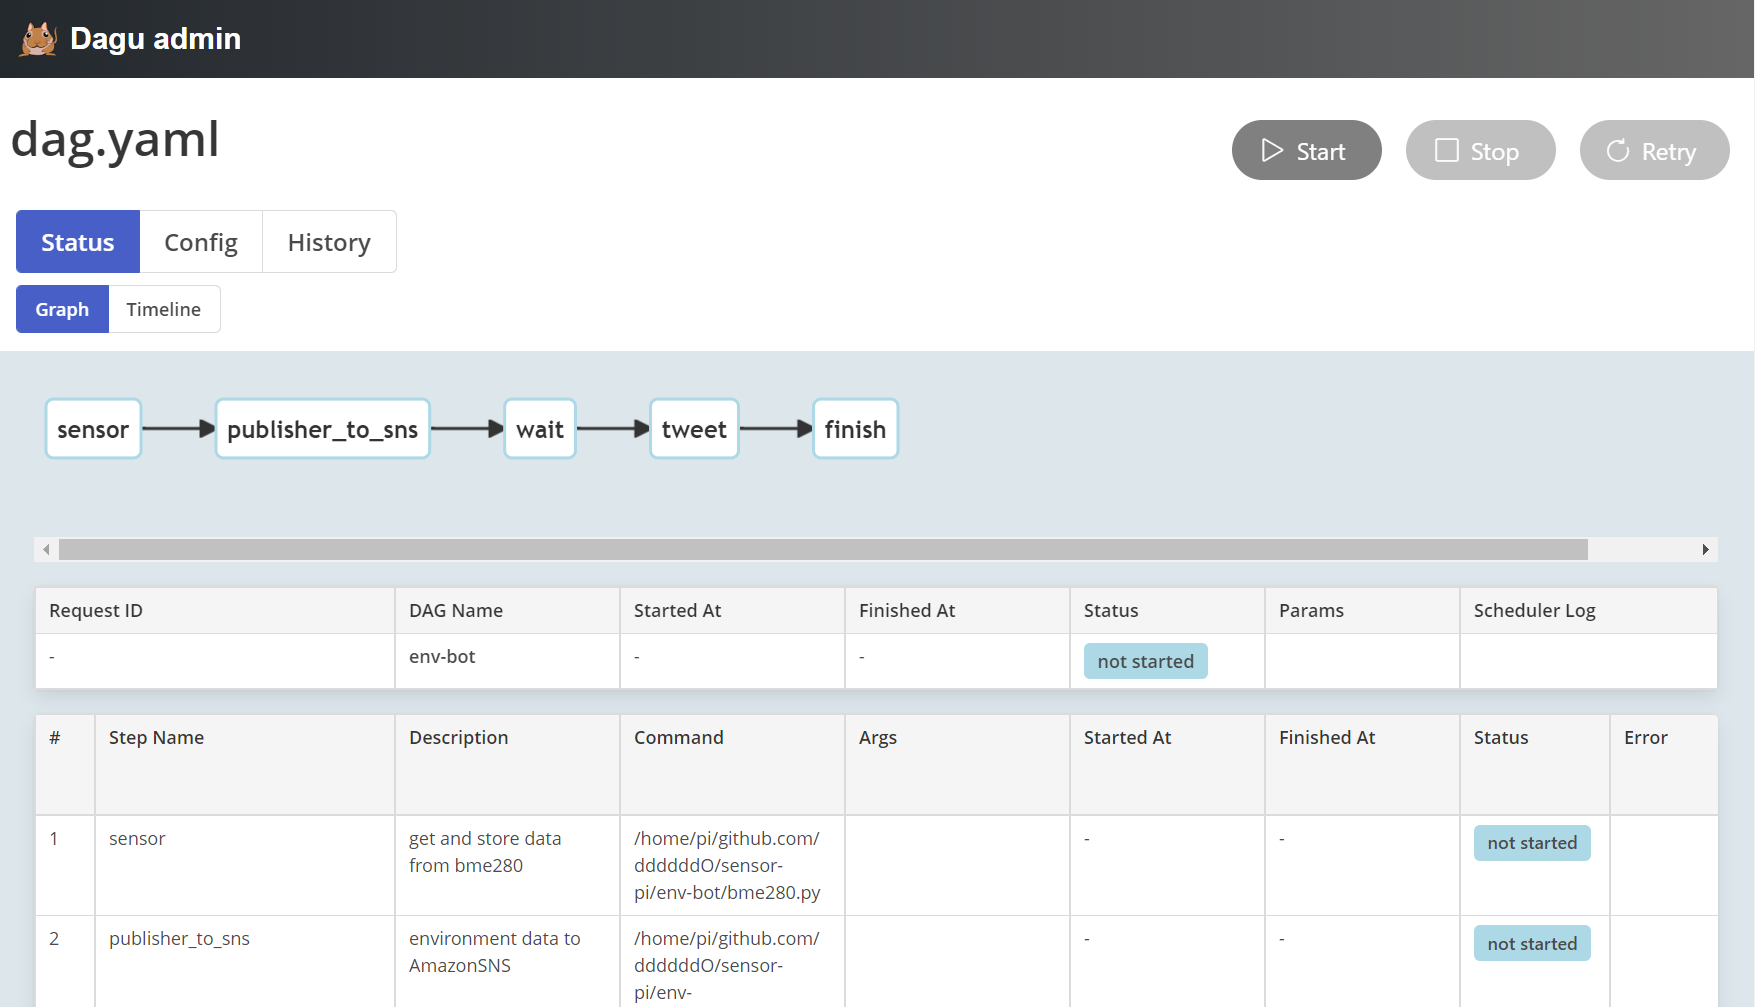
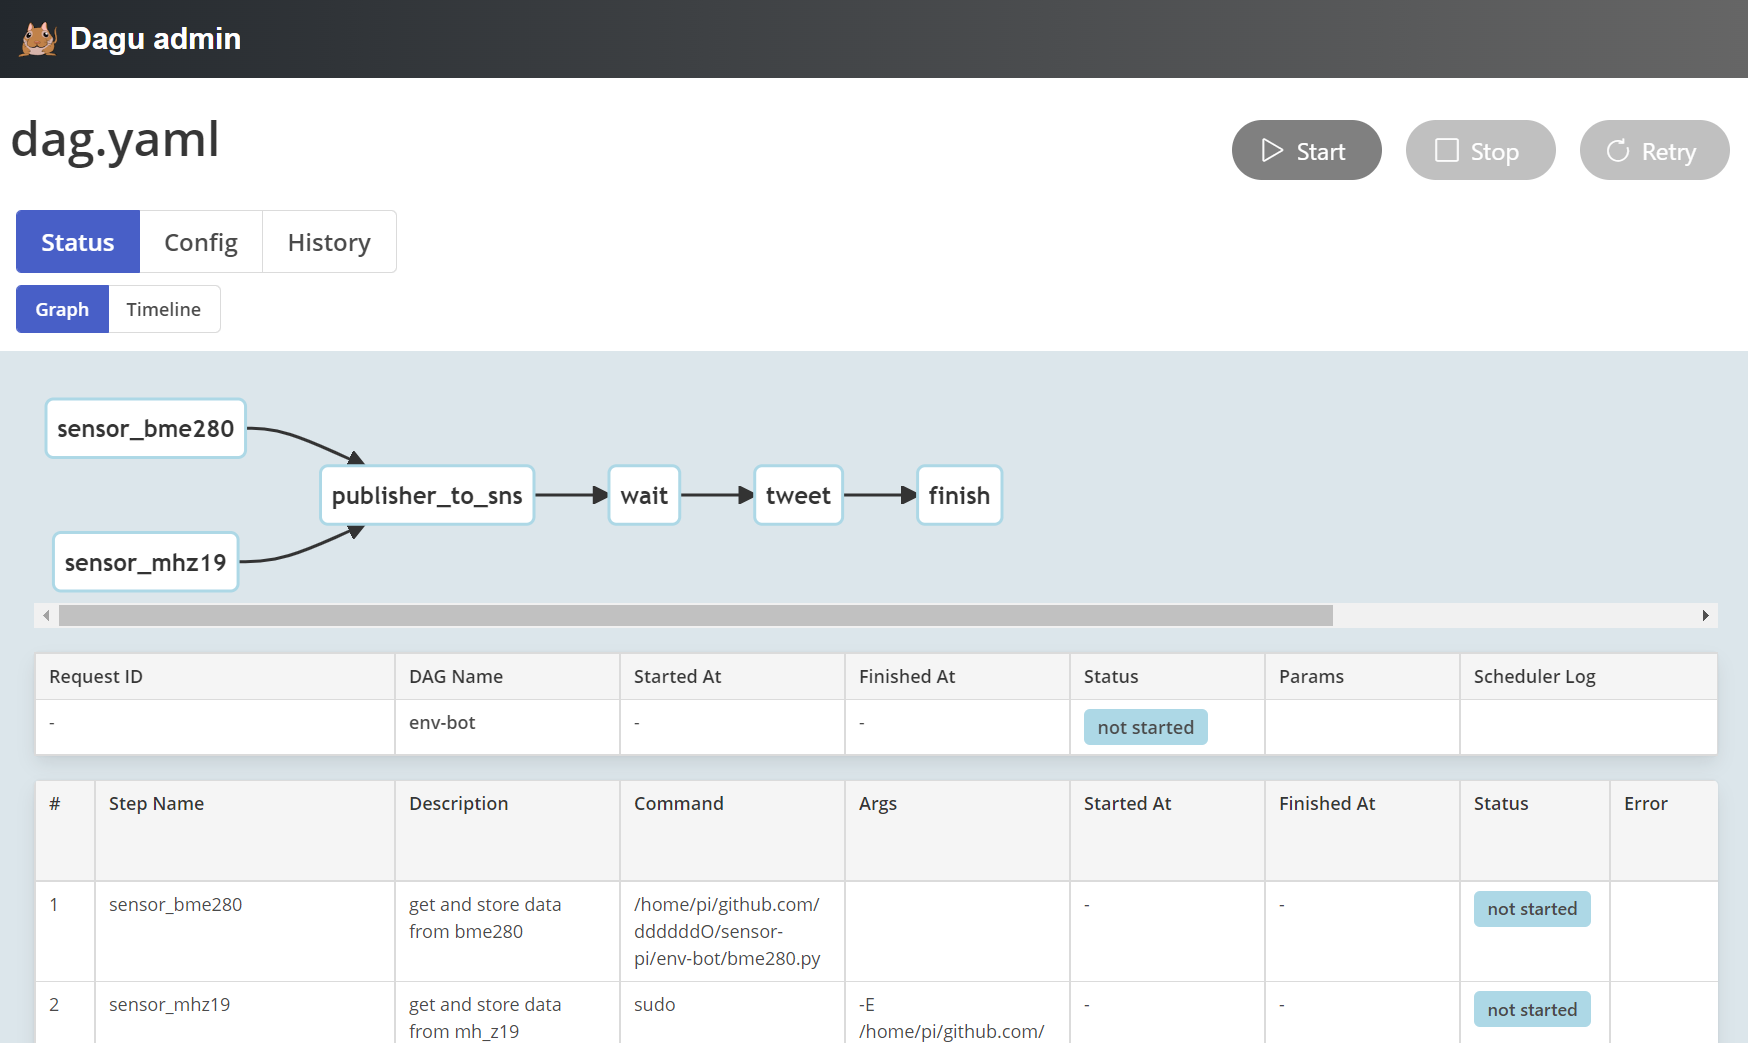
modify docs

diff --git a/env-bot/doc/diagram.py b/env-bot/doc/diagram.py
@@ -9,6 +9,7 @@ from diagrams.saas.social import Twitter
 
 with Diagram("ENV-Tweet-Bot", show=False, outformat="png"):
   bme280 = Server("bme280\n(sensor)")
+  mh_z19 = Server("mh_z19\n(sensor)")
 
   green_edge = Edge(color="darkgreen")
   brown_edge = Edge(color="brown")
@@ -16,23 +17,27 @@ with Diagram("ENV-Tweet-Bot", show=False, outformat="png"):
 
   with Cluster("Raspberry Pi 4"):
     prog1 = Python("Get and Store\nsensor value")
+    prog4 = Python("Get and Store\nsensor value")
     db = SQL("SQLite3")
     prog2 = Go("Fetch and Publish\nenv data\n(10 records)")
     prog3 = Python("Pull and Decode\nimage data\nand Post tweet")
 
   with Cluster("AWS"):
-    sns = SNS("pressure/\nhumidity/\ntemperature data")
+    sns = SNS("pressure/\nhumidity/\ntemperature and co2 data")
 
     with Cluster("Generate image"):
       svc_group = [Lambda("pressure"),
                   Lambda("humidity"),
-                  Lambda("temperature")]
+                  Lambda("temperature"),
+                  Lambda("co2")]
 
     sqs = SQS("encoded base64\nimage data")
 
   twitter = Twitter("Twitter")
 
-  bme280 >> black_edge >> prog1 >> black_edge >> black_edge >> db >> black_edge >> prog2 >> black_edge >> sns
+  bme280 >> black_edge >> prog1 >> black_edge >> db
+  mh_z19 >> black_edge >> prog4 >> black_edge >> db
+  db >> black_edge >> prog2 >> black_edge >> sns
   sns >> green_edge >> svc_group
   svc_group >> green_edge >> sqs >> brown_edge >> prog3
   prog3 >> black_edge >> twitter

diff --git a/README.md b/README.md
@@ -5,7 +5,7 @@
 
 # [env-bot](env-bot/)
 ### 概要
-- bme280(センサ)から気圧・温度・湿度を取得する@多摩川あたり。
+- bme280から気圧・温度・湿度を、mh_z19からCO2濃度を取得する@多摩川あたり。
 - 取得したデータを使って線グラフを生成する。
 - 線グラフと取得データを毎日am9:00/pm6:00にツイートする。
 
